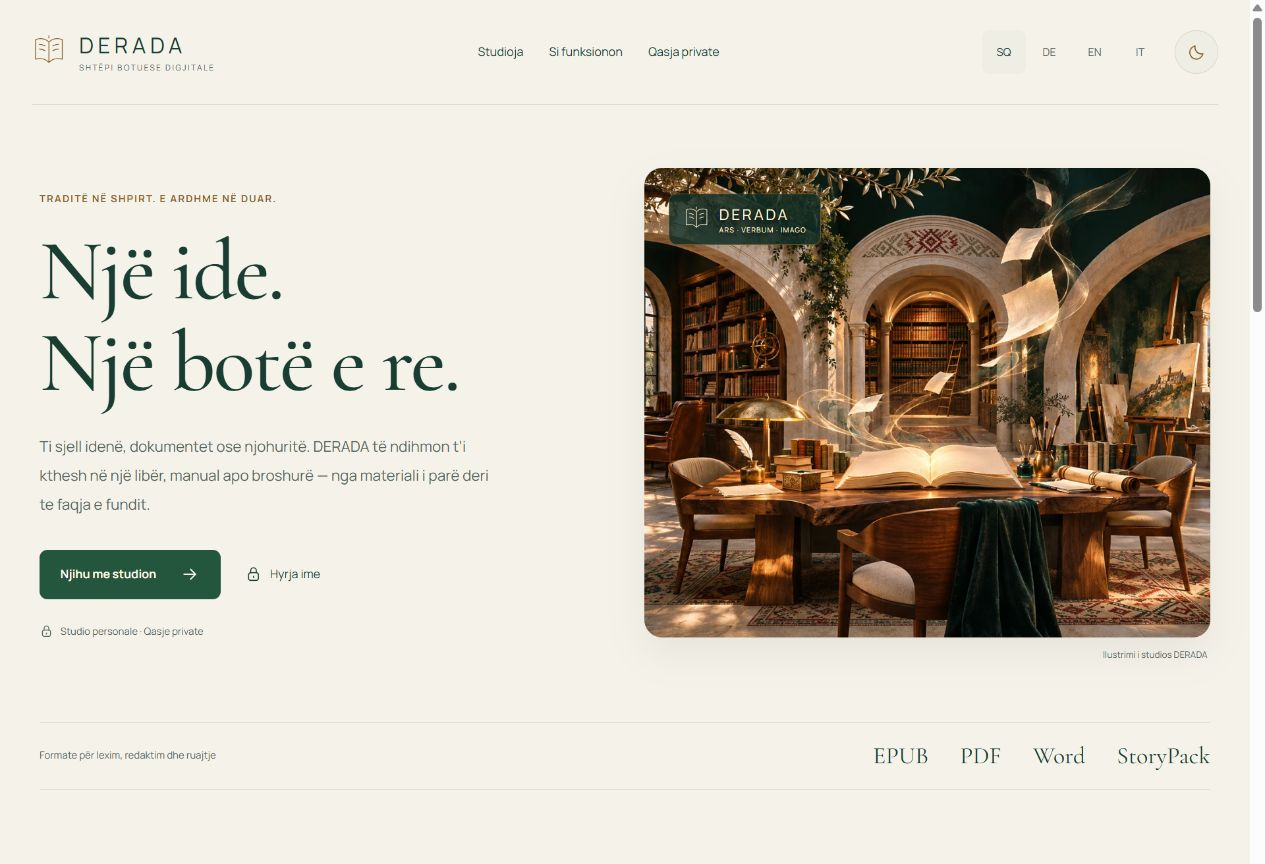
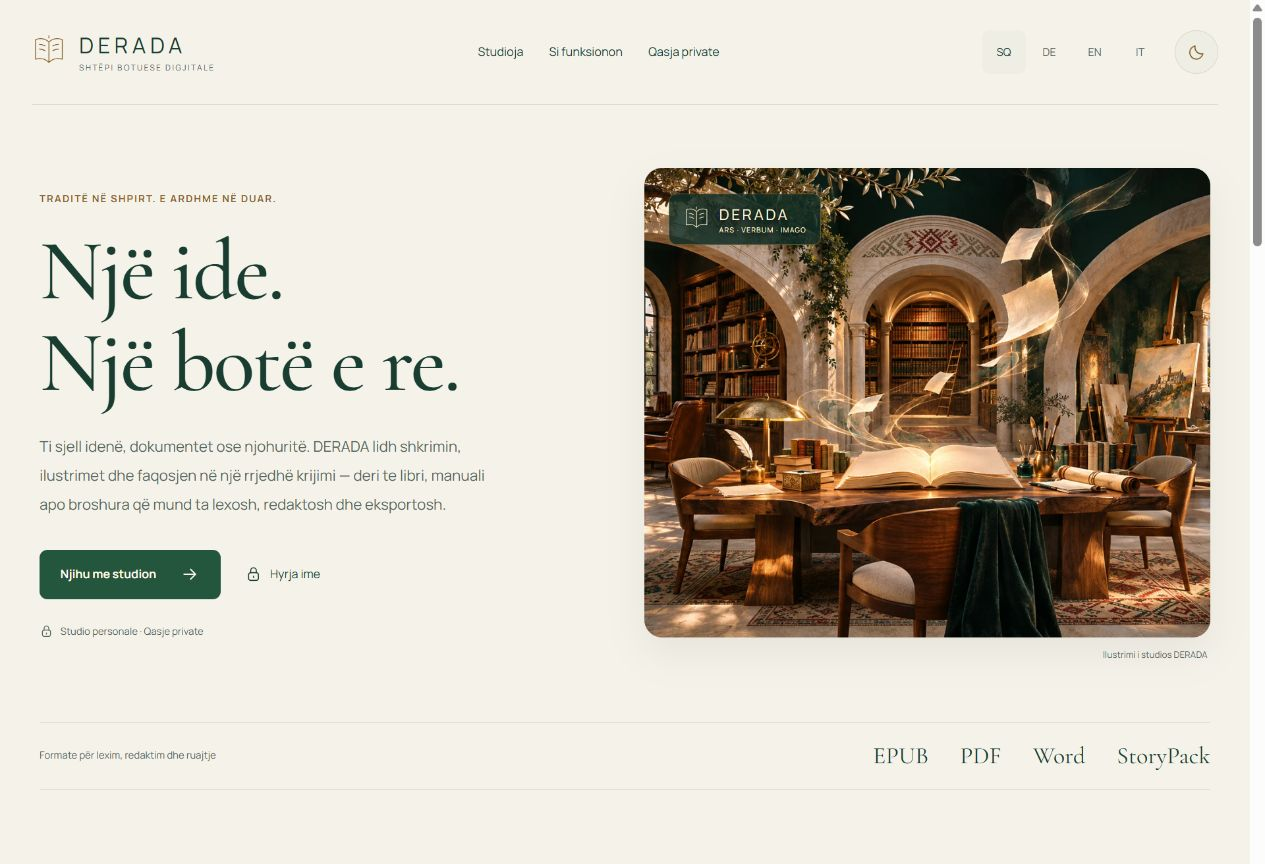
Link the verified public DERADA website

Changed region(s): [[0.0308, 0.5, 0.4008, 0.5938], [0.9866, 0.2812, 1.0, 0.375]]

diff --git a/README.md b/README.md
@@ -78,22 +78,31 @@ and cost decision before START.
 
 ![DERADA presentation website, Albanian light theme](docs/media/derada-website.png)
 
-The public presentation is prepared in **SQ / DE / EN / IT**, with light and
+The public presentation is live in
+[SQ](https://derada.redioncekrezi.de/sq.html) /
+[DE](https://derada.redioncekrezi.de/de.html) /
+[EN](https://derada.redioncekrezi.de/en.html) /
+[IT](https://derada.redioncekrezi.de/it.html), with light and
 night themes, localized legal pages and an explicit owner-access disclosure.
-The image above is a capture of the actual website candidate; its publishing
+The image above is a capture of the actual public website; its publishing
 house artwork is a labelled decorative illustration. It contains no private
 book pages or customer records.
 
-**Status — 5 November 2026:** the existing owner-only Tailscale entry was
-verified from the owner's laptop, including the presentation-to-studio flow.
-The public hostname and portfolio release are **pending publication** at
-`derada.redioncekrezi.de`. This is a private personal studio with a public
+Automation connects structured writing, selected-style illustrations and
+layout, direct-from-original translation, exports and version history in one
+studio. The presentation explains these capabilities without invented time or
+cost savings; facts, citations and sharing remain review decisions.
+
+**Status — 5 November 2026:** the public hostname passed 36 anonymous HTTP
+checks, 24 language/theme/viewport observations and 16 legal-page observations.
+The existing owner-only Tailscale entry was verified from the owner's laptop,
+including the live presentation-to-studio flow. This is a private personal studio with a public
 information page; there is no public registration or generation endpoint.
 ArborKnowledge Studio remains a separate project.
 
 The bounded public website source and verification receipt are maintained in
-[the portfolio repository](https://github.com/IamRedi/redion-portfolio-/tree/feat/derada-website-20261105/tools/derada-presentation)
-and [the presentation receipt](https://github.com/IamRedi/redion-portfolio-/blob/feat/derada-website-20261105/docs/DERADA_WEBSITE_20261105.md).
+[the portfolio repository](https://github.com/IamRedi/redion-portfolio-/tree/main/tools/derada-presentation)
+and [the presentation receipt](https://github.com/IamRedi/redion-portfolio-/blob/main/docs/DERADA_WEBSITE_20261105.md).
 The existing VIRTUTES software-factory status, media, About and homepage still
 describe the wider REDI Lab project; this addition does not replace them or
 raise their readiness.
